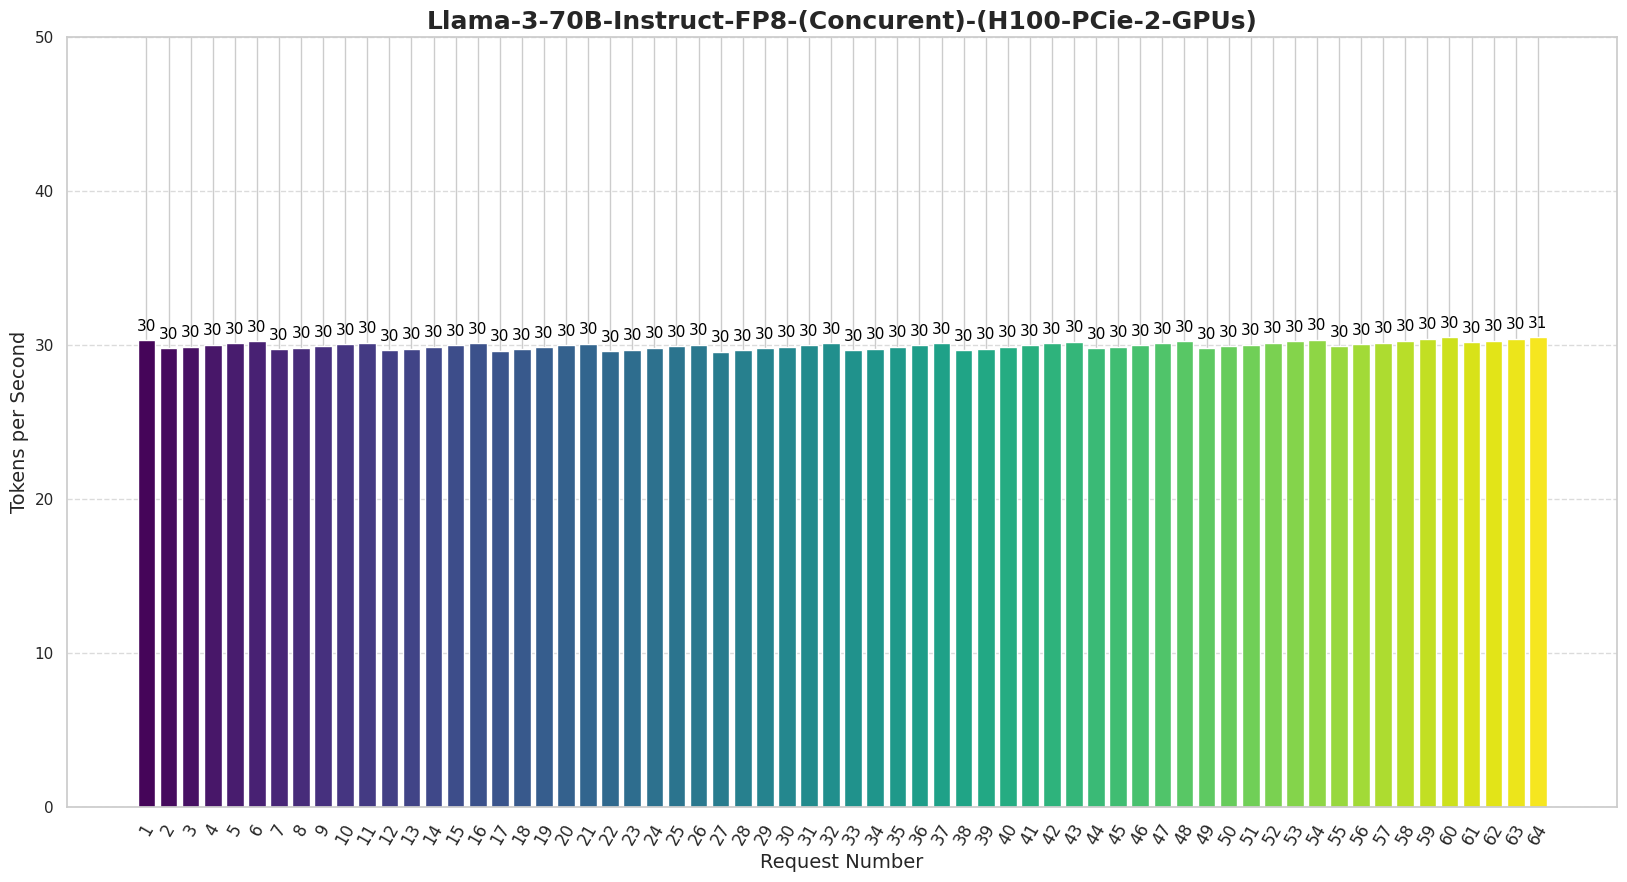
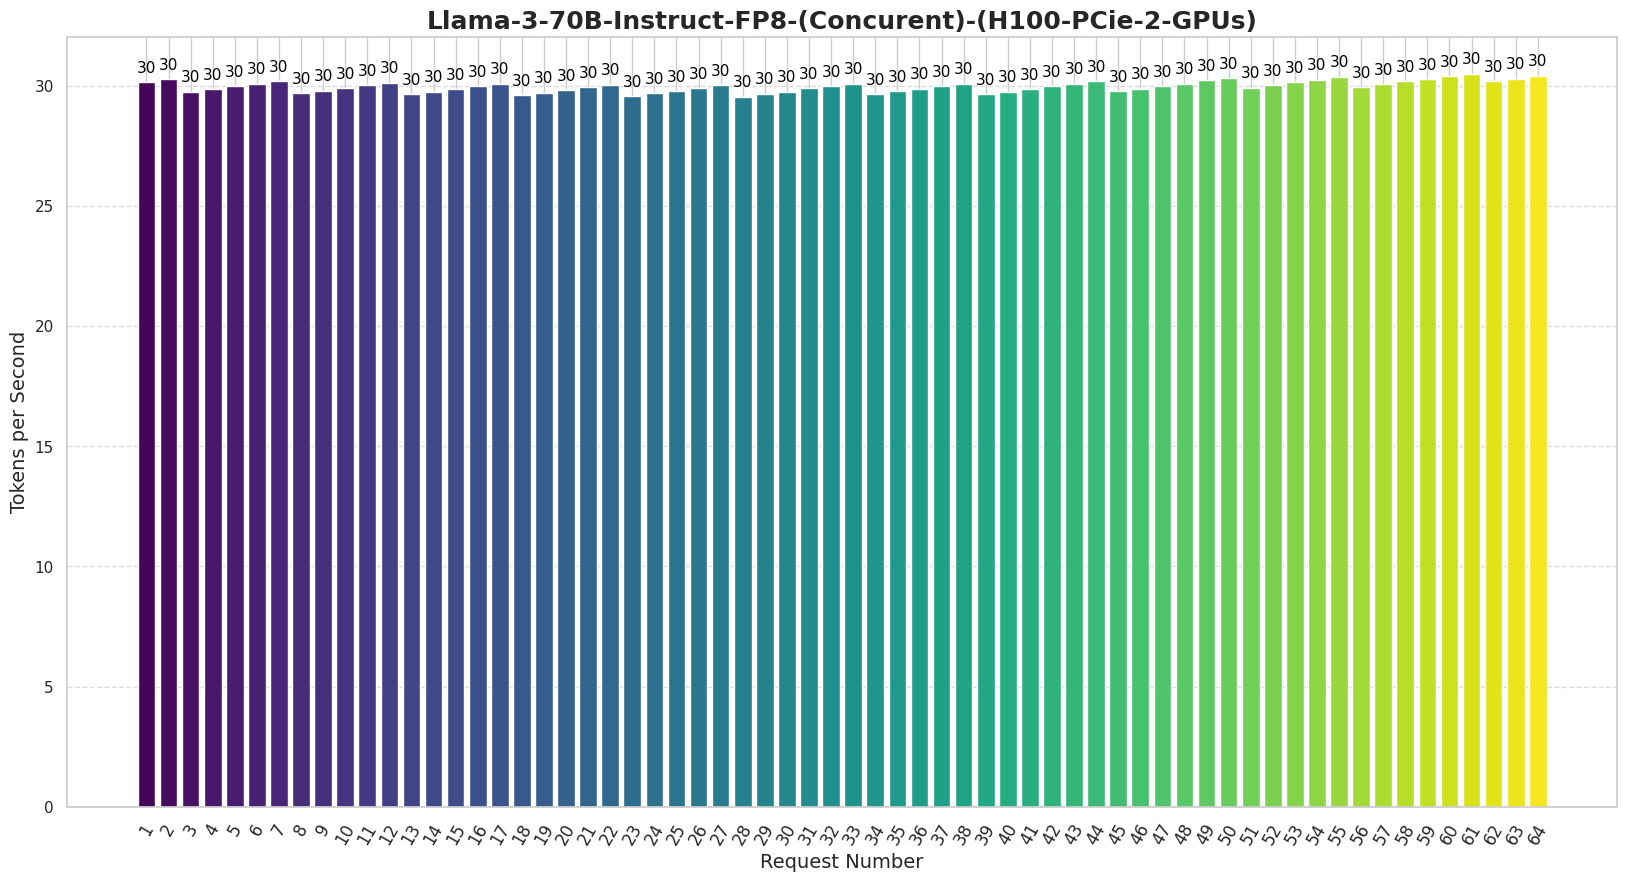
Add Groq performanc test script

Changed region(s): [[0.0615, 0.0612, 0.9527, 0.398], [0.0, 0.3673, 0.0307, 0.398], [0.0, 0.2143, 0.0307, 0.2449]]

diff --git a/scripts/groq-sequential.py b/scripts/groq-sequential.py
@@ -1,0 +1,75 @@
+import time
+import threading
+import os
+import csv
+from dotenv import load_dotenv
+from groq import Groq
+
+# Load environment variables
+load_dotenv()
+GROQ_API_KEY = os.getenv("GROQ_KEY")
+
+# Initialize the Groq client once with the api_key
+client = Groq(api_key=GROQ_API_KEY)
+
+# Create a lock for synchronizing print statements and file writes
+write_lock = threading.Lock()
+
+# Open the CSV file and write the header
+with open('results.csv', 'w', newline='') as file:
+    writer = csv.writer(file)
+    writer.writerow(["Request Number", "Total Time Taken", "Prompt Tokens", "Tokens Generated", "Tokens per Second"])
+
+def chat_completion_request_groq(messages, client, request_number):
+    start_time = time.time()
+    chat_response = client.chat.completions.create(
+        model="llama-3.1-70b-versatile",
+        messages=messages,
+        max_tokens=500,
+        temperature=0.01,
+    )
+
+    response_time = time.time() - start_time  # Calculate response time
+    
+    if request_number == 1:
+        print(chat_response)
+
+    if chat_response.choices:
+        completion_text = chat_response.choices[0].message.content
+    else:
+        completion_text = None
+
+    # Extract the required values
+    prompt_tokens = chat_response.usage.prompt_tokens if completion_text else 0
+    queue_time = chat_response.usage.queue_time if chat_response.usage.queue_time is not None else 0
+    tokens_generated = chat_response.usage.completion_tokens if completion_text else 0
+    tokens_per_second = tokens_generated / response_time if response_time > 0 else 0
+
+    with write_lock:
+        # Print the results
+        print("")
+        print(f"---------- Request #{request_number} ----------")
+        print(f"Total Time Taken: {response_time:.2f} seconds")
+        print(f"Queue ttime: {queue_time:.2f}")
+        print(f"Prompt tokens: {prompt_tokens:.2f}")
+        print(f"Tokens generated: {tokens_generated:.2f}")
+        print(f"Tokens per second: {tokens_per_second:.2f}")
+
+        # Write the results to the CSV file
+        with open('results.csv', 'a', newline='') as file:
+            writer = csv.writer(file)
+            writer.writerow([request_number, f"{response_time:.2f}", f"{prompt_tokens:.2f}", f"{tokens_generated:.2f}", f"{tokens_per_second:.2f}"])
+
+    return chat_response
+
+def send_request_sequentially(num_requests):
+    for request_number in range(1, num_requests + 1):
+        messages = [
+            {"role": "user", "content": "Write a long essay on the topic of spring."}
+        ]
+        chat_completion_request_groq(messages, client, request_number)
+        time.sleep(2)  # Wait for 5 seconds before sending the next request
+
+if __name__ == "__main__":
+    num_requests = 16  # Specify the number of requests here
+    send_request_sequentially(num_requests)

diff --git a/scripts/sglang-concurent.py b/scripts/sglang-concurent.py
@@ -1,0 +1,72 @@
+import time
+import threading
+import os
+import openai
+import csv
+
+client = openai.Client(
+    base_url="http://127.0.0.1:4001/v1", api_key="EMPTY")
+
+# Create a lock for synchronizing print statements and file writes
+write_lock = threading.Lock()
+
+# Open the CSV file and write the header
+with open('results.csv', 'w', newline='') as file:
+    writer = csv.writer(file)
+    writer.writerow(["Request Number", "Total Time Taken", "Prompt Tokens", "Tokens Generated", "Tokens per Second"])
+
+def chat_completion_request_groq(messages, client, request_number):
+    start_time = time.time()
+    chat_response = client.chat.completions.create(
+        model="default",
+        messages=messages,
+        max_tokens=500,
+        temperature=0.01,
+    )
+
+    response_time = time.time() - start_time  # Calculate response time
+    
+    if request_number == 1:
+        print(chat_response)
+
+    if chat_response.choices:
+        completion_text = chat_response.choices[0].message.content
+    else:
+        completion_text = None
+
+    # Extract the required values
+    prompt_tokens = chat_response.usage.prompt_tokens if completion_text else 0
+    tokens_generated = chat_response.usage.completion_tokens if completion_text else 0
+    tokens_per_second = tokens_generated / response_time if response_time > 0 else 0
+
+    with write_lock:
+        # Print the results
+        print("")
+        print(f"---------- Request #{request_number} ----------")
+        print(f"Total Time Taken: {response_time:.2f} seconds")
+        print(f"Prompt tokens: {prompt_tokens:.2f}")
+        print(f"Tokens generated: {tokens_generated:.2f}")
+        print(f"Tokens per second: {tokens_per_second:.2f}")
+
+        # Write the results to the CSV file
+        with open('results.csv', 'a', newline='') as file:
+            writer = csv.writer(file)
+            writer.writerow([request_number, f"{response_time:.2f}", f"{prompt_tokens:.2f}", f"{tokens_generated:.2f}", f"{tokens_per_second:.2f}"])
+
+    return chat_response
+
+def send_request_every_x_seconds(num_requests):
+    for i in range(num_requests):
+        threading.Timer(0.06125 * i, send_request, args=(i + 1,)).start()
+
+def send_request(request_number):
+    messages = [
+        {"role": "user", "content": "Write a long essay on the topic of spring."}
+    ]
+    chat_completion_request_groq(messages, client, request_number)
+    
+
+if __name__ == "__main__":
+    num_requests = 64  # Specify the number of requests here
+    send_request_every_x_seconds(num_requests)
+    

diff --git a/scripts/groq-concurent.py b/scripts/groq-concurent.py
@@ -1,12 +1,16 @@
 import time
 import threading
 import os
-import openai
 import csv
-from csv_plot import *
+from dotenv import load_dotenv
+from groq import Groq
 
-client = openai.Client(
-    base_url="http://127.0.0.1:4001/v1", api_key="EMPTY")
+# Load environment variables
+load_dotenv()
+GROQ_API_KEY = os.getenv("GROQ_KEY")
+
+# Initialize the Groq client once with the api_key
+client = Groq(api_key=GROQ_API_KEY)
 
 # Create a lock for synchronizing print statements and file writes
 write_lock = threading.Lock()
@@ -19,7 +23,7 @@ with open('results.csv', 'w', newline='') as file:
 def chat_completion_request_groq(messages, client, request_number):
     start_time = time.time()
     chat_response = client.chat.completions.create(
-        model="default",
+        model="llama-3.1-70b-versatile",
         messages=messages,
         max_tokens=500,
         temperature=0.01,
@@ -37,6 +41,7 @@ def chat_completion_request_groq(messages, client, request_number):
 
     # Extract the required values
     prompt_tokens = chat_response.usage.prompt_tokens if completion_text else 0
+    queue_time = chat_response.usage.queue_time if chat_response.usage.queue_time is not None else 0
     tokens_generated = chat_response.usage.completion_tokens if completion_text else 0
     tokens_per_second = tokens_generated / response_time if response_time > 0 else 0
 
@@ -45,6 +50,7 @@ def chat_completion_request_groq(messages, client, request_number):
         print("")
         print(f"---------- Request #{request_number} ----------")
         print(f"Total Time Taken: {response_time:.2f} seconds")
+        print(f"Queue ttime: {queue_time:.2f}")
         print(f"Prompt tokens: {prompt_tokens:.2f}")
         print(f"Tokens generated: {tokens_generated:.2f}")
         print(f"Tokens per second: {tokens_per_second:.2f}")

diff --git a/scripts/graph-plot.py b/scripts/graph-plot.py
@@ -4,7 +4,7 @@ import seaborn as sns
 import re
 import os
 
-def plot_tokens_per_second(csv_path: str, title: str, ylimit: int):
+def plot_tokens_per_second(csv_path: str, title: str, ylimit: int = None):
     # Read the data into a DataFrame
     df = pd.read_csv(csv_path)
 
@@ -34,8 +34,9 @@ def plot_tokens_per_second(csv_path: str, title: str, ylimit: int):
     ax.set_ylabel('Tokens per Second', fontsize=14)
     ax.set_title(title, fontsize=18, fontweight='bold')
 
-    # Set Y-axis limit to 70 tokens/sec
-    ax.set_ylim(0, ylimit)
+    # Set Y-axis limit if provided
+    if ylimit is not None:
+        ax.set_ylim(0, ylimit)
 
     # Improve the x-axis labels by rotating and adjusting them
     plt.xticks(df['Request Number'], rotation=60, ha='center', fontsize=12)
@@ -59,4 +60,7 @@ def plot_tokens_per_second(csv_path: str, title: str, ylimit: int):
 if __name__ == "__main__":
     # Example usage
     y_axis_limit = 50
-    plot_tokens_per_second("results.csv", "Llama-3-70B-Instruct-FP8-(Sequential)-(H100-PCie-2-GPUs)", y_axis_limit)
+    plot_tokens_per_second("results.csv", "Llama-3-70B-Instruct-FP8-(Sequential)-(H100-PCie-2-GPUs)")
+    # plot_tokens_per_second("results.csv", "Llama-3-70B-Instruct-FP8-(Concurent)-(H100-PCie-2-GPUs)")
+    # plot_tokens_per_second("results.csv", "Llama-3.1-70b-versatile-(Concurent)-(Groq)", 250)
+    # plot_tokens_per_second("results.csv", "Llama-3.1-70b-versatile-(Sequential)-(Groq)", 250)

diff --git a/README.md b/README.md
@@ -1,0 +1,117 @@
+# Project: LLM Inference Engine Performance Testing
+
+## Overview
+
+This project contains a set of Python scripts designed to test and compare the performance of various LLM inference engines, including SGLang, vLLM, Groq, and OpenAI. The results are recorded and plotted for analysis.
+
+## Directory Structure
+
+```plaintext
+📦scripts
+ ┣ 📜graph-plot.py
+ ┣ 📜sglang-concurent.py
+ ┗ 📜sglang-sequential.py
+```
+
+### Files
+
+1. **sglang-sequential.py**:
+    - Sends requests to the LLM inference engine sequentially.
+    - Records the time taken for each request, the number of prompt tokens, generated tokens, and tokens per second.
+    - Outputs results to `results.csv`.
+
+2. **sglang-concurent.py**:
+    - Sends requests to the LLM inference engine concurrently.
+    - Uses threading to manage multiple simultaneous requests.
+    - Records the same performance metrics as the sequential script.
+    - Outputs results to `results.csv`.
+
+3. **graph-plot.py**:
+    - Reads the `results.csv` file generated by the other scripts.
+    - Plots a bar chart of tokens generated per second for each request.
+    - Saves the plot as a PNG image in the `images` directory.
+
+## Usage
+
+### 1. Sequential Requests
+
+Run the `sglang-sequential.py` script to send a specified number of requests sequentially to the LLM inference engine and record the results.
+
+```bash
+python sglang-sequential.py
+```
+
+### 2. Concurrent Requests
+
+Run the `sglang-concurent.py` script to send a specified number of requests concurrently to the LLM inference engine and record the results.
+
+```bash
+python sglang-concurent.py
+```
+
+### 3. Plotting the Results
+
+After running either the sequential or concurrent script, use the `graph-plot.py` script to generate a plot of the tokens generated per second.
+
+```bash
+python graph-plot.py
+```
+## Sequential vs. Concurrent Requests
+
+### Sequential Requests
+
+In the sequential approach, requests are sent one after another, with a delay between each request. This method ensures that only one request is processed at a time, which can be useful for understanding the performance of individual requests without interference from others.
+
+#### Example of Calculated Delay Time
+
+If you have `num_requests = 5`, the delays between each request will be as follows:
+
+- Request 1: sent at time `t = 0s`
+- Request 2: sent at time `t = 2s`
+- Request 3: sent at time `t = 4s`
+- Request 4: sent at time `t = 6s`
+- Request 5: sent at time `t = 8s`
+
+```python
+def send_request_sequentially(num_requests):
+    for request_number in range(1, num_requests + 1):
+        messages = [
+            {"role": "user", "content": "Write a long essay on the topic of spring."}
+        ]
+        chat_completion_request_groq(messages, client, request_number)
+        time.sleep(2)  # Wait for 2 seconds before sending the next request
+```
+
+### Concurrent Requests
+
+In the concurrent approach, multiple requests are sent almost simultaneously, with a slight delay between the start times of each request to avoid overwhelming the system all at once. This method uses threading to handle multiple requests in parallel, which can help test the system's performance under load and its ability to handle concurrent processing.
+
+#### Example of Concurrent Requests
+
+If you have `num_requests = 5` with a delay of `0.06125` seconds between each request, the delays will be as follows:
+
+- Request 1: sent at time `t = 0s`
+- Request 2: sent at time `t = 0.06125s`
+- Request 3: sent at time `t = 0.1225s`
+- Request 4: sent at time `t = 0.18375s`
+- Request 5: sent at time `t = 0.245s`
+
+```python
+def send_request_every_x_seconds(num_requests):
+    for i in range(num_requests):
+        threading.Timer(0.06125 * i, send_request, args=(i + 1,)).start()
+```
+
+## Sample Graph Results
+**Groq - sequential request**
+![Groq Sequential Performance](images/Llama-3.1-70b-versatile-(Sequential)-(Groq).png)
+**SGLang inference enging - 2xH100 sequential request**
+![SGlang Sequential Performance](images/Llama-3-70B-Instruct-FP8-(Sequential)-(H100-PCie-2-GPUs).png)
+**Groq - concurrent request**
+![Groq Concurrent Performance](images/Llama-3.1-70b-versatile-(Concurent)-(Groq).png)
+**SGLang inference enging - 2xH100 concurrent request**
+![SGlang Concurrent Performance](images/Llama-3-70B-Instruct-FP8-(Concurent)-(H100-PCie-2-GPUs).png)
+
+## Contact
+
+For any questions or issues, please contact [Chirawat Chitpakdee](mailto:chirawat.ch@ku.th).
